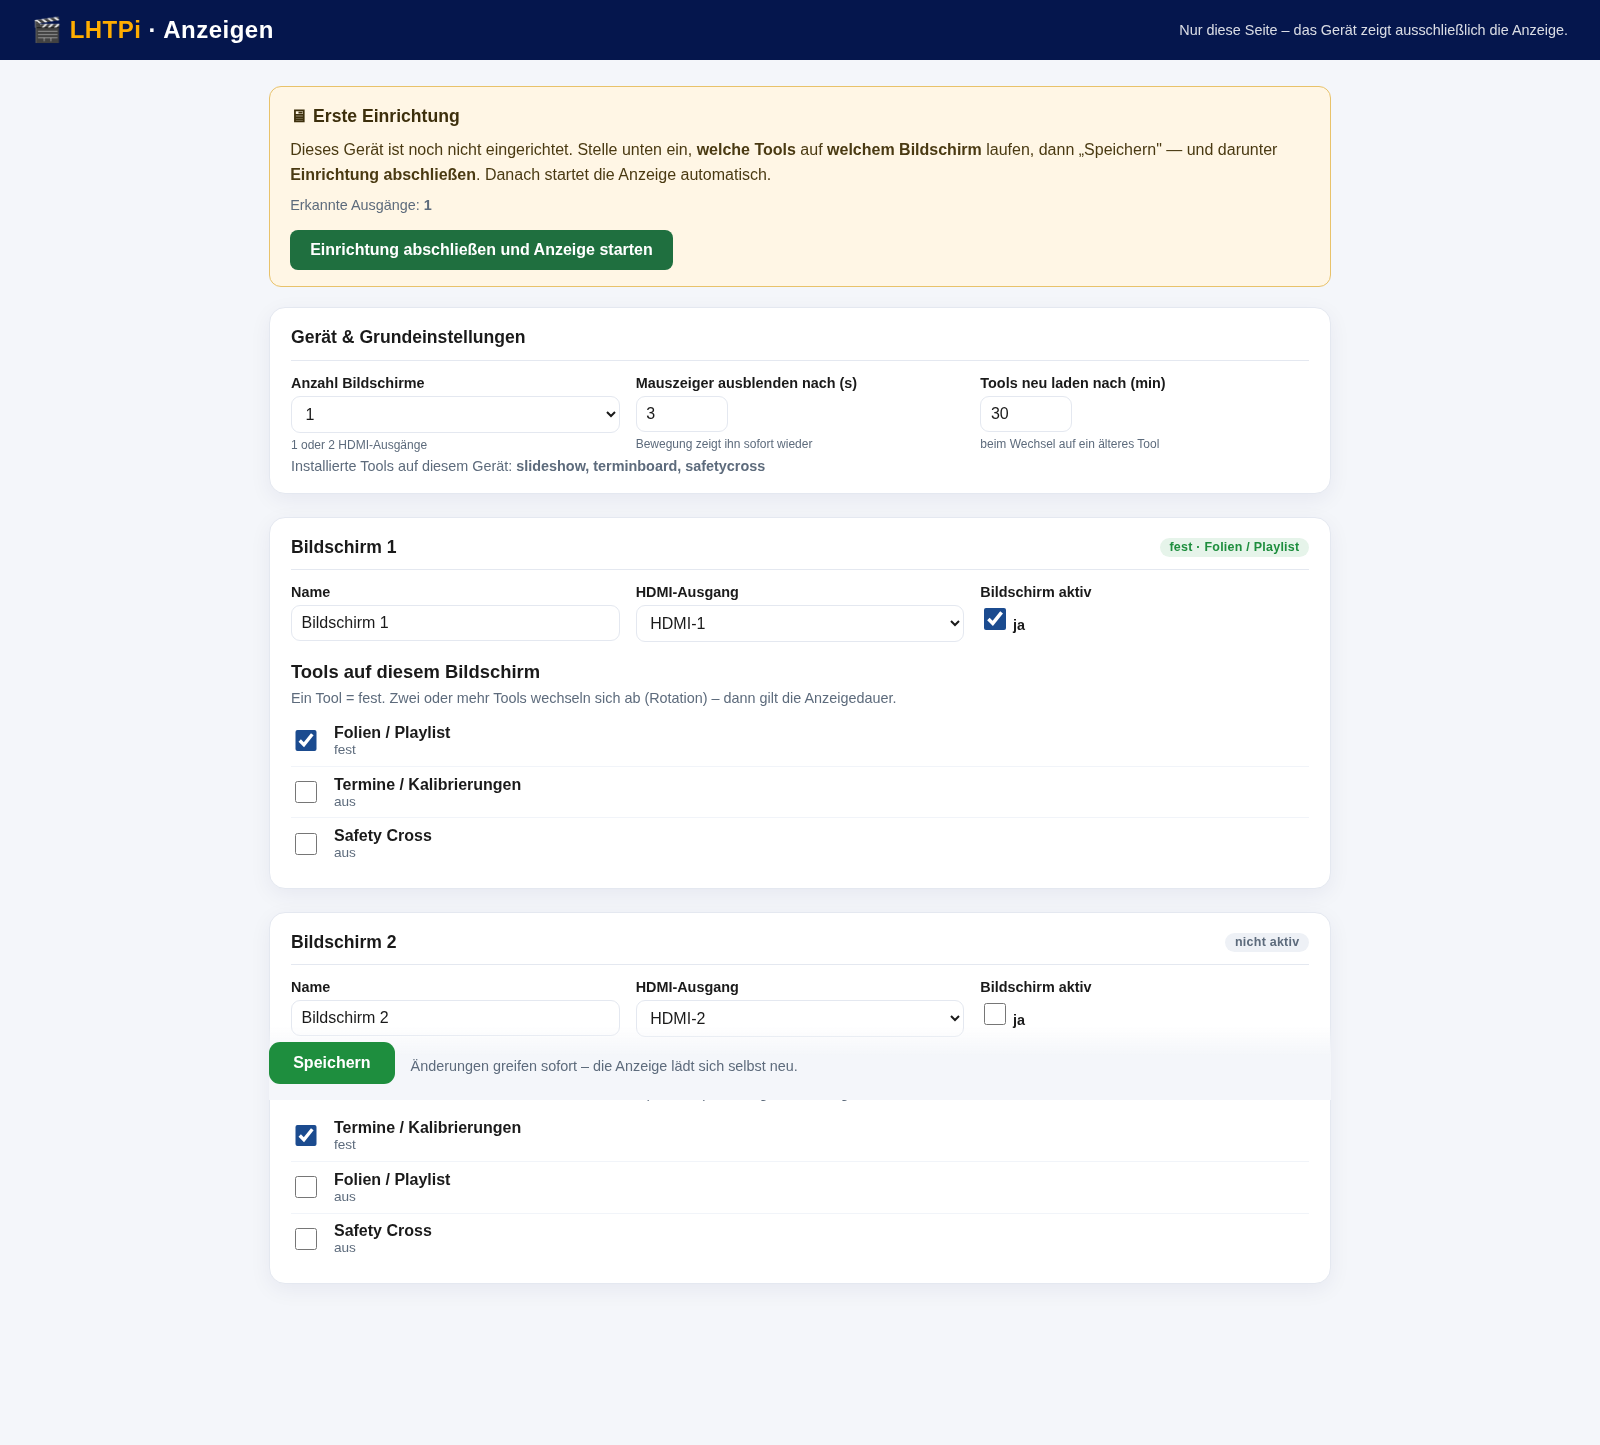
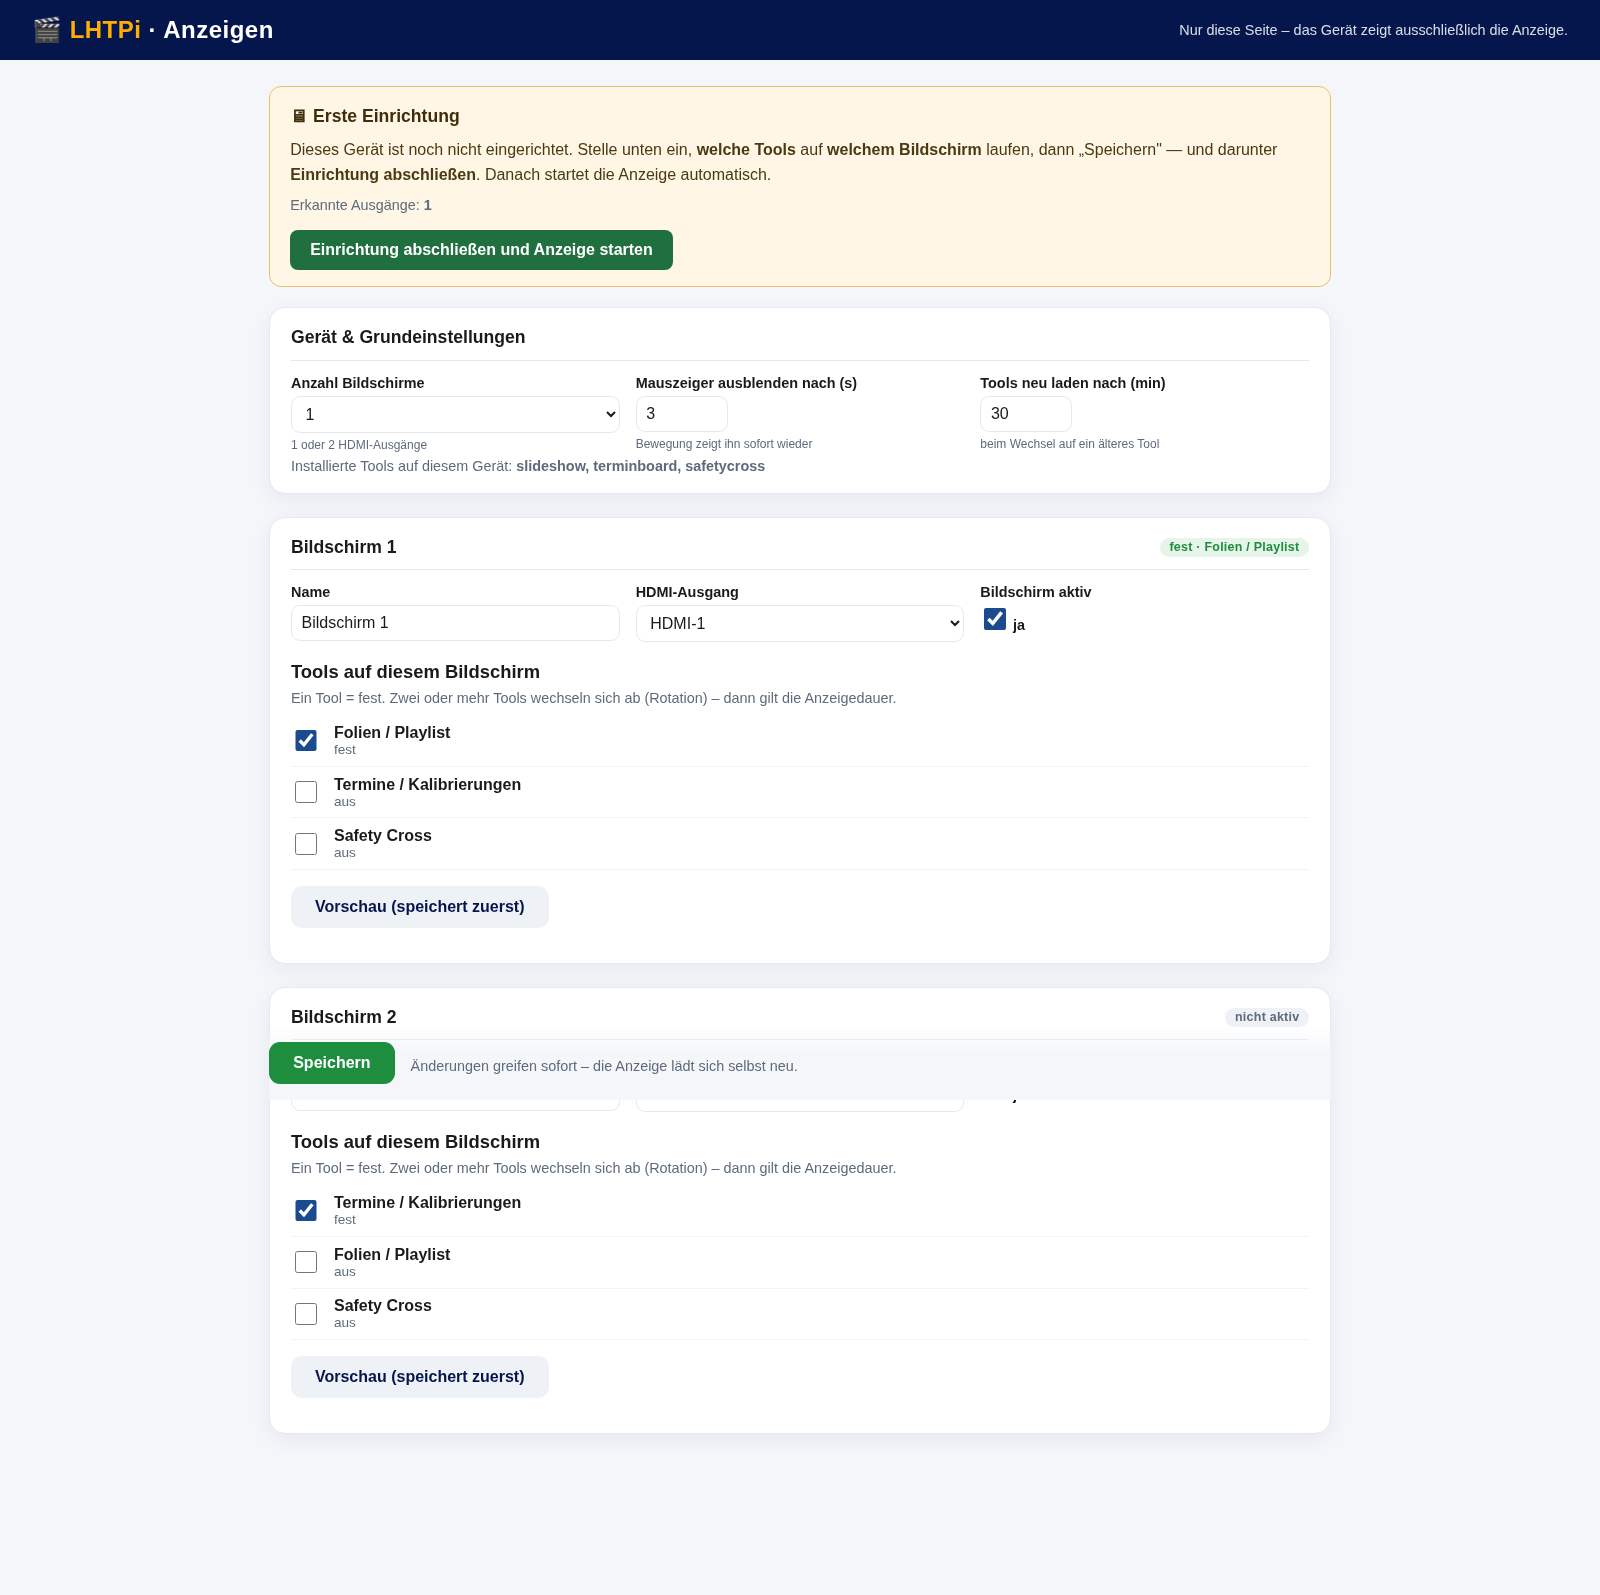
fix(anzeige): Vorschau zeigt das gewaehlte Tool (speichert zuerst, kennzeichnet es)
Tim hat bei "Safety Cross als einziges Tool" in der Vorschau "keine Playlist"
gesehen. Der Router war korrekt - die Vorschau zeigte aber den ZULETZT
GESPEICHERTEN Stand (Werkseinstellung = Folien, ohne Playlist = leere Meldung),
nicht die frische Auswahl.

- Knopf heisst jetzt "Vorschau (speichert zuerst)": der Klick speichert die
  Belegung und oeffnet dann genau diesen Bildschirm als Vorschau. Kein
  Auseinanderlaufen von Auswahl und Vorschau mehr.
- Die Vorschau ist gekennzeichnet: unten rechts steht "Vorschau - Safety Cross
  (fest)" bzw. "(1/3)" bei Rotation. Der Kiosk laedt die Seite ohne diesen
  Zusatz und bleibt ruhig (keine Kennzeichnung auf dem grossen Schirm).

Nachweis ueber echte Dienste (tools/test-anzeige-tools-live.py): Safety Cross,
Terminboard und Verteiler gestartet, dann geprueft:
  - SC-Anzeige liefert den eigenen Inhalt (kein Folien-Text),
  - Terminboard /board/kiosk liefert die Termin-Anzeige,
  - /screen/N bettet genau das eingestellte Tool ein, mit dessen eigener
    Adresse; die Folien-App erscheint nicht, wenn sie nicht gewaehlt ist.
Alle drei Kombinationen geprueft (SC allein, Termine allein, Folien allein,
SC+Termine in Rotation). 99 Router-Pruefungen; Screenshots 20-24 erneuert.

diff --git a/templates/display.html b/templates/display.html
@@ -219,10 +219,9 @@
         <div class="note">Keine Tools installiert – Installation mit Auswahl erneut ausführen.</div>
       {% endif %}
 
-      {% if not lokal %}
-      <p><a class="btn ghost" href="{{ url_for('screen', idx=s.idx) }}" target="_blank"
-            rel="noopener">Vorschau öffnen</a></p>
-      {% endif %}
+      <p><button type="submit" class="btn ghost" name="weiter"
+                 value="vorschau_{{ s.idx }}" formtarget="_blank">Vorschau
+        (speichert zuerst)</button></p>
     </div>
     {% endfor %}
 

diff --git a/templates/screen.html b/templates/screen.html
@@ -92,7 +92,12 @@
       }
       f.classList.toggle('on', k === i);
     });
-    if (tools.length > 1) {
+    if (cfg.vorschau) {
+      // Vorschau aus der Verwaltung: immer anzeigen, welches Tool läuft
+      badge.hidden = false;
+      badge.textContent = 'Vorschau · ' + tools[i].short +
+        (tools.length > 1 ? ' (' + (i + 1) + '/' + tools.length + ')' : ' (fest)');
+    } else if (tools.length > 1) {
       badge.hidden = false;
       badge.textContent = (i + 1) + '/' + tools.length + ' · ' + tools[i].short;
     }

diff --git a/tools/test-anzeige-tools-live.py b/tools/test-anzeige-tools-live.py
@@ -1,0 +1,197 @@
+#!/usr/bin/env python3
+"""Live-Prüfung: zeigt jede Anzeige wirklich ihr eigenes Tool?
+
+Startet Safety Cross und Terminboard als echte Dienste auf eigenen Ports, ruft
+ihre Anzeige-Adressen ab und prüft:
+
+  1. Jede Anzeige-Adresse antwortet (HTTP 200).
+  2. Jede Anzeige liefert ihren EIGENEN Inhalt (nicht die Folien-App).
+  3. Die Router-Seite /screen/N bettet genau die Tools ein, die eingestellt
+     sind — und keine anderen.
+
+Aufruf:  ./venv/bin/python tools/test-anzeige-tools-live.py
+"""
+import json
+import os
+import re
+import shutil
+import socket
+import subprocess
+import sys
+import time
+import urllib.error
+import urllib.request
+
+BASE = os.path.dirname(os.path.dirname(os.path.abspath(__file__)))
+sys.path.insert(0, BASE)
+
+ORDNER = '/tmp/lhtpi-tools-live'
+ROUTER_PORT = 8199
+TERMIN_PORT = 8101
+SC_PORT = 8102
+fehler = []
+
+
+def pruefe(bedingung, text):
+    print('  %s %s' % ('OK  ' if bedingung else 'FEHL', text))
+    if not bedingung:
+        fehler.append(text)
+
+
+def hole(url, timeout=10):
+    try:
+        with urllib.request.urlopen(urllib.request.Request(url), timeout=timeout) as a:
+            return a.status, a.read().decode('utf-8', 'replace')
+    except urllib.error.HTTPError as e:
+        return e.code, e.read().decode('utf-8', 'replace')
+    except Exception as e:
+        return None, str(e)
+
+
+def frei(port):
+    with socket.socket() as s:
+        return s.connect_ex(('127.0.0.1', port)) != 0
+
+
+def warte(url, prozesse, sekunden=25):
+    for _ in range(sekunden * 2):
+        status, text = hole(url)
+        if status:
+            return status, text
+        for p in prozesse:
+            if p.poll() is not None and p.stderr:
+                rest = p.stderr.read().decode('utf-8', 'replace').strip()
+                if rest:
+                    print('     (Dienst beendet: %s)' % rest.splitlines()[-1][:160])
+                return None, 'Dienst beendet'
+        time.sleep(0.5)
+    return None, 'nicht erreichbar'
+
+
+shutil.rmtree(ORDNER, ignore_errors=True)
+os.makedirs(ORDNER, exist_ok=True)
+PY = os.path.join(BASE, 'venv', 'bin', 'python')
+dienste = []
+
+print('1) Safety Cross direkt (:8102/)')
+sc_dir = os.path.join(BASE, 'tools', 'safety-cross')
+sc_env = dict(os.environ, PORT=str(SC_PORT), DB_PFAD=os.path.join(ORDNER, 'sc.db'),
+              LHTPI_HWID='piserial:10000000demo', LHTPI_LICENSE_ENFORCE='0')
+sc = subprocess.Popen([PY, 'app.py'], cwd=sc_dir, env=sc_env,
+                      stdout=subprocess.DEVNULL, stderr=subprocess.PIPE)
+dienste.append(sc)
+status, seite = warte('http://127.0.0.1:%d/' % SC_PORT, [sc])
+pruefe(status == 200, 'Safety Cross antwortet auf / (HTTP %s)' % status)
+if status == 200:
+    pruefe('Safety Cross' in seite, 'Seite zeigt den Safety Cross (eigener Inhalt)')
+    pruefe('Playlist' not in seite, 'keine Folien-Inhalte auf der SC-Anzeige')
+
+print('2) Terminboard direkt (:8101/board/kiosk)')
+ter_dir = os.path.join(BASE, 'terminboard')
+ter_env = dict(os.environ, TERMINBOARD_PORT=str(TERMIN_PORT),
+               TERMINBOARD_HOST='127.0.0.1',
+               TERMINBOARD_DB=os.path.join(ORDNER, 'ter.db'),
+               LHTPI_HWID='piserial:10000000demo', LHTPI_LICENSE_ENFORCE='0')
+ter = subprocess.Popen([PY, 'app.py'], cwd=ter_dir, env=ter_env,
+                       stdout=subprocess.DEVNULL, stderr=subprocess.PIPE)
+dienste.append(ter)
+status, seite = warte('http://127.0.0.1:%d/board/kiosk' % TERMIN_PORT, [ter])
+pruefe(status == 200, 'Terminboard antwortet auf /board/kiosk (HTTP %s)' % status)
+if status == 200:
+    pruefe('Playlist' not in seite, 'keine Folien-Inhalte auf der Termin-Anzeige')
+
+print('3) Router-Seite bettet genau das eingestellte Tool ein')
+umgebung = dict(os.environ)
+umgebung.update({
+    'LHTPI_DB': os.path.join(ORDNER, 'router.db'),
+    'LHTPI_PORT': str(ROUTER_PORT),
+    'LHTPI_HWID': 'piserial:10000000demo',
+    'LHTPI_KIOSK_PROBE': '0',
+    'LHTPI_TOOLS': 'slideshow,terminboard,safetycross',
+    'LHTPI_SCREENS_FILE': os.path.join(ORDNER, 'screens'),
+    'LHTPI_SCREEN2_FILE': os.path.join(ORDNER, 'screen2'),
+    'LHTPI_INSTALLED_MARKER': os.path.join(ORDNER, 'installed'),
+    'LHTPI_LICENSE_FILE': os.path.join(ORDNER, 'license.key'),
+    'LHTPI_LICENSE_ENFORCE': '0',
+    # Anzeige-Adressen auf die Testports umbiegen
+    'LHTPI_TOOL_URLS': 'slideshow=http://localhost:%d/present/kiosk,'
+                       'terminboard=http://localhost:%d/board/kiosk,'
+                       'safetycross=http://localhost:%d/'
+                       % (ROUTER_PORT, TERMIN_PORT, SC_PORT),
+})
+router = subprocess.Popen([PY, os.path.join(BASE, 'app.py')], cwd=BASE,
+                          env=umgebung, stdout=subprocess.DEVNULL,
+                          stderr=subprocess.PIPE)
+dienste.append(router)
+status, _ = warte('http://127.0.0.1:%d/lizenz' % ROUTER_PORT, [router])
+pruefe(status == 200, 'Verteiler-App läuft (HTTP %s)' % status)
+
+import urllib.parse                                    # noqa: E402
+
+
+def speichere(tools_liste):
+    """Belegung über die Anzeigen-Seite setzen (am Gerät ohne Login)."""
+    daten = {'screen_count': '1', 'cursor_idle': '3', 'reload_minutes': '30',
+             'screen_1_present': '1', 'name_1': 'Bildschirm 1',
+             'hdmi_1': 'HDMI-1', 'screen_1_active': '1'}
+    for i, (t, d) in enumerate(tools_liste):
+        daten['tool_1_%s_present' % t] = '1'
+        daten['tool_1_%s_active' % t] = '1'
+        daten['tool_1_%s_dwell' % t] = str(d)
+        daten['tool_1_%s_sort' % t] = str(i)
+    anfrage = urllib.request.Request(
+        'http://127.0.0.1:%d/display/save' % ROUTER_PORT,
+        data=urllib.parse.urlencode(daten).encode(),
+        headers={'Content-Type': 'application/x-www-form-urlencoded'})
+    urllib.request.urlopen(anfrage, timeout=10).read()
+
+
+def router_seite(idx=1):
+    status, text = hole('http://127.0.0.1:%d/screen/%d' % (ROUTER_PORT, idx))
+    if status != 200:
+        return status, {}
+    roh = re.search(r'<script id="cfg" type="application/json">(.*?)</script>',
+                    text, re.S)
+    return status, json.loads(roh.group(1)) if roh else {}
+
+
+for tool, erwartet in (('safetycross', ':%d/' % SC_PORT),
+                       ('terminboard', ':%d/board/kiosk' % TERMIN_PORT),
+                       ('slideshow', ':%d/present/kiosk' % ROUTER_PORT)):
+    speichere([(tool, 30)])
+    status, cfg = router_seite()
+    namen = [t['tool'] for t in cfg.get('tools', [])]
+    urls = [t['url'] for t in cfg.get('tools', [])]
+    pruefe(namen == [tool], 'nur %s ist eingestellt (gefunden: %s)' % (tool, namen))
+    pruefe(bool(urls) and erwartet in urls[0],
+           '%s zeigt auf seine eigene Adresse (%s)' % (tool, urls[0] if urls else '-'))
+
+# Zwei Tools gemischt: beide Adressen müssen vorkommen
+speichere([('safetycross', 30), ('terminboard', 30)])
+status, cfg = router_seite()
+namen = sorted(t['tool'] for t in cfg.get('tools', []))
+urls = ' '.join(t['url'] for t in cfg.get('tools', []))
+pruefe(namen == ['safetycross', 'terminboard'],
+       'bei zwei Tools stehen beide in der Rotation (%s)' % namen)
+pruefe(':%d/' % SC_PORT in urls and ':%d/board/kiosk' % TERMIN_PORT in urls,
+       'jedes Tool behält seine eigene Anzeige-Adresse')
+pruefe('present/kiosk' not in urls,
+       'die Folien-App wird nicht eingeschlichen, wenn sie nicht gewählt ist')
+
+# Und andersherum: mit gewählten Folien zeigt die Anzeige auf die Folien
+speichere([('slideshow', 60)])
+status, cfg = router_seite()
+pruefe('/present/kiosk' in [t['url'] for t in cfg.get('tools', [])][0],
+       'mit gewählten Folien zeigt die Anzeige auf die Folien-App')
+pruefe([t['tool'] for t in cfg.get('tools', [])] == ['slideshow'],
+       'und auf nichts anderes')
+
+for p in dienste:
+    p.terminate()
+    try:
+        p.wait(timeout=10)
+    except subprocess.TimeoutExpired:
+        p.kill()
+
+print('\n%s' % ('ALLES GRÜN' if not fehler else 'FEHLER: ' + '; '.join(fehler)))
+sys.exit(1 if fehler else 0)

diff --git a/tools/shots-anzeige.py b/tools/shots-anzeige.py
@@ -28,8 +28,33 @@ shutil.rmtree(ORDNER, ignore_errors=True)
 os.makedirs(ORDNER, exist_ok=True)
 os.makedirs(OUT, exist_ok=True)
 
+# Safety Cross und Terminboard als echte Dienste starten, damit die Vorschau
+# wirklich deren Anzeigen zeigt (nicht nur einen leeren Rahmen).
+AUSWAHL = {'TERMIN_PORT': 8101, 'SC_PORT': 8102}
+dienste = []
+for name, befehl, port_schluessel, port, datei in (
+        ('safety-cross', 'app.py', 'PORT', AUSWAHL['SC_PORT'], 'sc.db'),
+        ('terminboard', 'app.py', 'TERMINBOARD_PORT', AUSWAHL['TERMIN_PORT'], 'ter.db')):
+    unter = os.path.join(BASE, 'tools', 'safety-cross') if name == 'safety-cross' \
+        else os.path.join(BASE, 'terminboard')
+    eigen = dict(os.environ)
+    eigen[port_schluessel] = str(port)
+    eigen['LHTPI_HWID'] = 'piserial:10000000demo'
+    eigen['LHTPI_LICENSE_ENFORCE'] = '0'
+    if name == 'safety-cross':
+        eigen['DB_PFAD'] = os.path.join(ORDNER, datei)
+    else:
+        eigen['TERMINBOARD_DB'] = os.path.join(ORDNER, datei)
+    dienste.append(subprocess.Popen([VENV_PY, befehl], cwd=unter, env=eigen,
+                                    stdout=subprocess.DEVNULL,
+                                    stderr=subprocess.DEVNULL))
+
 umgebung = dict(os.environ)
 umgebung.update({
+    'LHTPI_TOOL_URLS': 'slideshow=http://localhost:%d/present/kiosk,'
+                       'terminboard=http://localhost:%d/board/kiosk,'
+                       'safetycross=http://localhost:%d/'
+                       % (PORT, AUSWAHL['TERMIN_PORT'], AUSWAHL['SC_PORT']),
     'LHTPI_DB': os.path.join(ORDNER, 'shots.db'),
     'LHTPI_PORT': str(PORT),
     'LHTPI_HWID': 'piserial:10000000demo',
@@ -143,7 +168,34 @@ try:
         open(umgebung['LHTPI_INSTALLED_MARKER'], 'w').close()
         foto('22-anzeige-start.png')
 
+        # D) Vorschau: zeigt wirklich das eingestellte Tool (Tim-Fall)
+        for tool, datei in (('safetycross', '23-vorschau-safety-cross.png'),
+                            ('terminboard', '24-vorschau-terminboard.png')):
+            setze([(tool, 30)])
+            schau = ctx.new_page()
+            schau.goto(L + '/screen/1?vorschau=1', wait_until='networkidle')
+            schau.wait_for_timeout(2500)
+            quelle = schau.evaluate(
+                "document.querySelector('iframe') ? document.querySelector('iframe').src : ''")
+            marke = schau.locator('#badge').inner_text().strip()
+            ziel = os.path.join(OUT, datei)
+            schau.screenshot(path=ziel)
+            print('%s (%.0f kB)  Rahmen=%s  Kennzeichnung=%r'
+                  % (ziel, os.path.getsize(ziel) / 1024, quelle, marke))
+            schau.close()
+            erwartet = (':%d/' % AUSWAHL['SC_PORT'] if tool == 'safetycross'
+                        else ':%d/board/kiosk' % AUSWAHL['TERMIN_PORT'])
+            if erwartet not in quelle:
+                raise SystemExit('FEHLER: Vorschau lädt nicht %s (%s)'
+                                 % (tool, quelle))
+
         browser.close()
 finally:
     lauf.terminate()
     lauf.wait(timeout=10)
+    for d in dienste:
+        d.terminate()
+        try:
+            d.wait(timeout=10)
+        except subprocess.TimeoutExpired:
+            d.kill()

diff --git a/test_kiosk_router.py b/test_kiosk_router.py
@@ -205,6 +205,47 @@ ok(os.stat(pfad).st_mtime_ns > vorher,
    'Bildschirm-Datei wird neu geschrieben -> Pfad-Wächter startet die Fenster')
 ok(open(pfad).read().strip() == '1', 'Bildschirm-Anzahl bleibt dabei erhalten')
 
+# ── 8c. Vorschau: erst speichern, dann genau diesen Bildschirm zeigen ───────
+with app.app_context():
+    router.save_screen(1, name='Bildschirm 1', hdmi='HDMI-1', enabled=True, entries=[
+        {'tool': 'safetycross', 'enabled': True, 'dwell': 30, 'sort': 0},
+        {'tool': 'slideshow', 'enabled': False, 'dwell': 60, 'sort': 1},
+    ])
+cfg_schau = anon.get('/screen/1?vorschau=1').get_json()
+ok(cfg_schau is None or True, 'Vorschau-Seite lädt')
+import json as _json                                              # noqa: E402
+import re as _re                                                  # noqa: E402
+roh = anon.get('/screen/1?vorschau=1').get_data(as_text=True)
+treffer = _re.search(r'<script id="cfg" type="application/json">(.*?)</script>',
+                     roh, _re.S)
+gefunden = _json.loads(treffer.group(1)) if treffer else {}
+ok(gefunden.get('vorschau') is True, 'Vorschau ist als solche gekennzeichnet')
+ok([t['tool'] for t in gefunden.get('tools', [])] == ['safetycross'],
+   'Vorschau zeigt das eingestellte Tool (Safety Cross)')
+ok('localhost:8002' in gefunden['tools'][0]['url'],
+   'Vorschau lädt die Safety-Cross-Anzeige, nicht die Folien')
+ohne = _re.search(r'<script id="cfg" type="application/json">(.*?)</script>',
+                  anon.get('/screen/1').get_data(as_text=True), _re.S)
+ok(_json.loads(ohne.group(1)).get('vorschau') is False,
+   'der Kiosk lädt ohne Vorschau-Kennzeichnung (ruhige Anzeige)')
+
+# Der Vorschau-Knopf speichert zuerst und öffnet dann die Vorschau
+antwort = anon.post('/display/save', data={
+    'screen_count': '1', 'cursor_idle': '3', 'reload_minutes': '30',
+    'screen_1_present': '1', 'name_1': 'Bildschirm 1', 'hdmi_1': 'HDMI-1',
+    'screen_1_active': '1',
+    'tool_1_safetycross_present': '1', 'tool_1_safetycross_active': '1',
+    'tool_1_safetycross_dwell': '45',
+    'weiter': 'vorschau_1',
+})
+ok(antwort.status_code == 302, 'Vorschau-Knopf speichert und leitet weiter')
+ok(antwort.headers.get('Location', '').endswith('/screen/1?vorschau=1'),
+   'und öffnet genau diesen Bildschirm als Vorschau (%s)'
+   % antwort.headers.get('Location'))
+neu_cfg = anon.get('/api/screen/1').get_json()
+ok(neu_cfg['tools'][0]['dwell'] == 45,
+   'die Auswahl wurde vor der Vorschau gespeichert')
+
 page = client.get('/display')
 ok(page.status_code == 200, '/display lädt auch mit Login weiter')
 

diff --git a/routes_kiosk.py b/routes_kiosk.py
@@ -20,6 +20,9 @@ def screen(idx):
     cfg = router.screen_config(idx)
     if cfg is None:
         abort(404)
+    # Vorschau (aus der Verwaltung): zeigt an, welches Tool gerade dran ist.
+    # Der Kiosk lädt die Seite ohne diesen Zusatz - dort bleibt alles ruhig.
+    cfg['vorschau'] = request.args.get('vorschau') == '1'
     return render_template('screen.html', cfg=cfg)
 
 
@@ -109,5 +112,18 @@ def display_save():
 
     if request.headers.get('X-Requested-With') == 'XMLHttpRequest':
         return jsonify({'ok': True})
+
+    # Knopf "Vorschau": die Auswahl wird zuerst gespeichert, damit man genau
+    # das sieht, was gleich auf dem Bildschirm läuft (nicht den alten Stand).
+    weiter = (request.form.get('weiter') or '').strip()
+    if weiter.startswith('vorschau_'):
+        try:
+            idx = int(weiter.split('_', 1)[1])
+        except (IndexError, ValueError):
+            idx = 0
+        if idx:
+            flash('Gespeichert – die Vorschau zeigt diesen Bildschirm.')
+            return redirect(url_for('screen', idx=idx, vorschau=1))
+
     flash('Anzeige-Einstellungen gespeichert')
     return redirect(url_for('display'))
